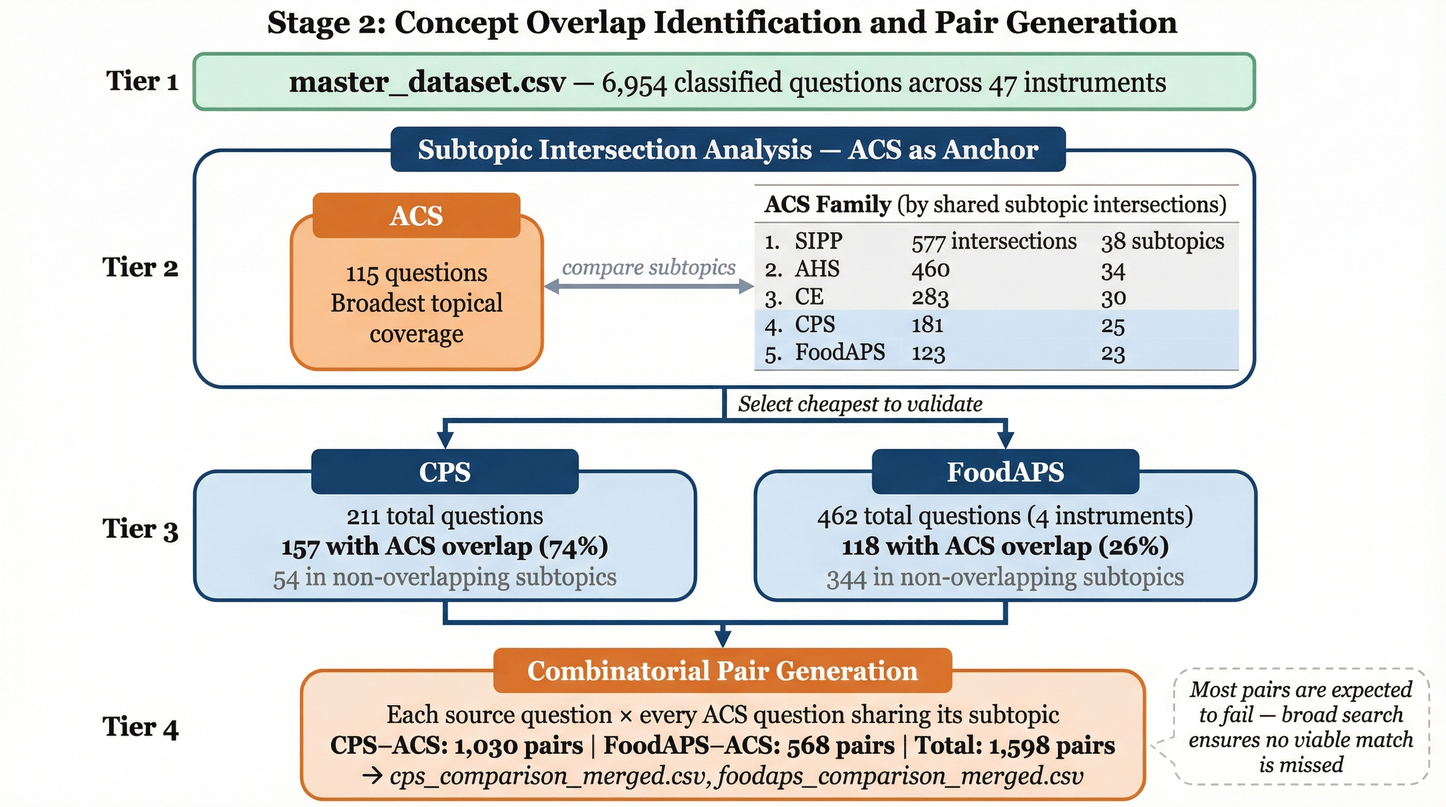
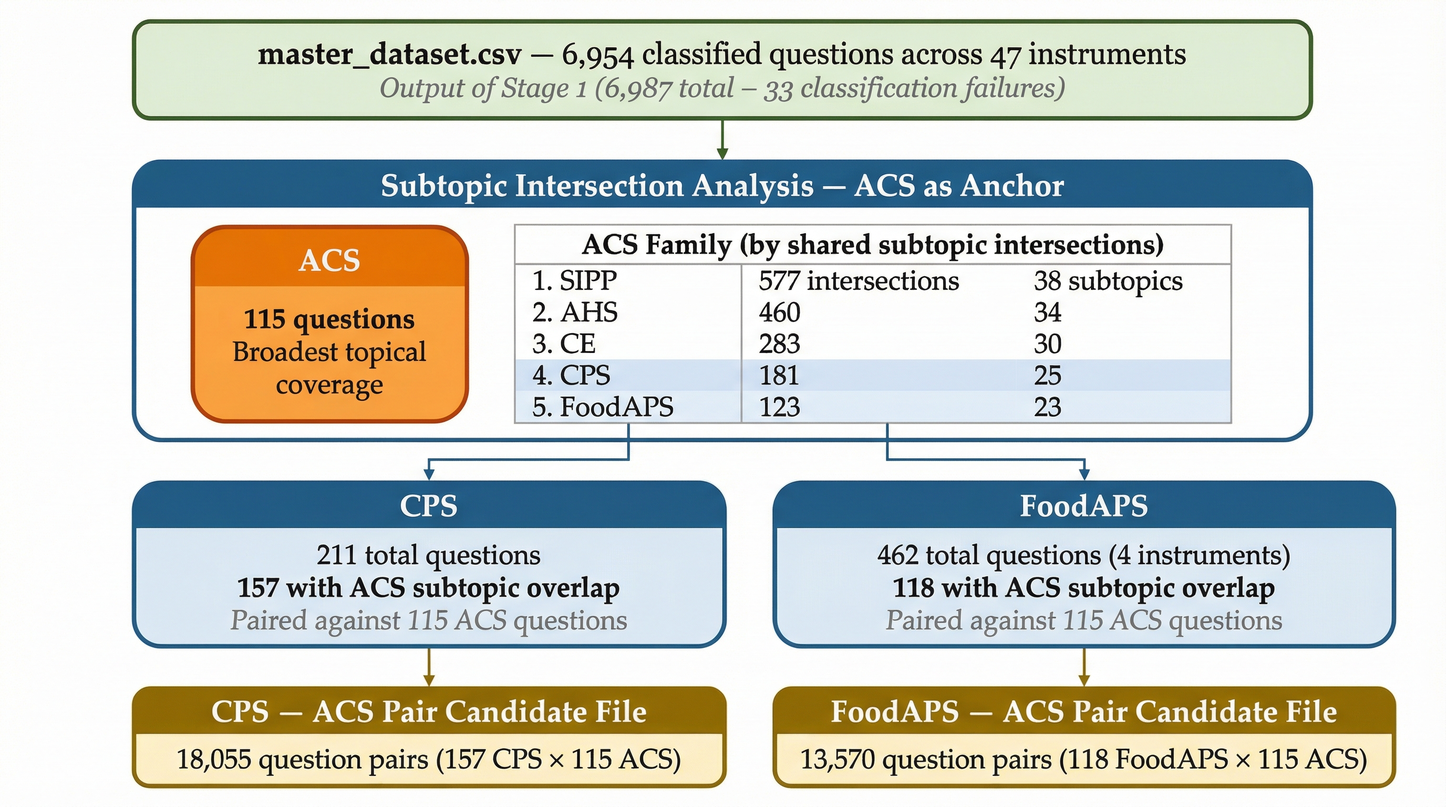
fix: regenerate Arch 2, 3, 6 from corrected method specs
Specs for stages 1, 2, 5 were updated with reviewer feedback after the
initial generation run. Regenerated from corrected specs:

  Arch 2 (stage1): run_20260301_181053_c85e33
    - Added full arbitration/judge loop (claude-sonnet-4-5)
    - Correct model names (gpt-5-mini, claude-haiku-4-5)
    - Intermediate artifacts (results_openai.jsonl, results_claude.jsonl)
    - Trust architecture annotation

  Arch 3 (stage2): run_20260301_181238_fc3c47
    - Input sublabel explains 6,987→6,954 delta (33 failures)
    - Removed "Select cheapest to validate" chart junk

  Arch 6 (stage5): run_20260301_181411_72c0da
    - Explicit pair→question aggregation (4-step)
    - Dedup step shown (380→275)
    - ACS-side deliverables (51 targets, 17 three-way, 2.78 fan-in)

Updated FIGURE_MAP.md with new provenance run IDs.

diff --git a/docs/FIGURE_MAP.md b/docs/FIGURE_MAP.md
@@ -23,11 +23,11 @@ Models used: VLM `gemini-2.5-flash` (config specifies `gemini-3.1-pro` — NOT F
 | Figure ID | Title | Chapter | Method Spec | Deployed Output | Provenance Run | Status |
 |-----------|-------|---------|-------------|-----------------|----------------|--------|
 | Arch 1 | Pipeline Overview | Appendix A | `assets/diagrams/paperbanana/pipeline_overview_method.txt` | `assets/diagrams/fig_pipeline_overview.png` | `run_20260301_163619_06e37c` | generated — awaiting review |
-| Arch 2 | Stage 1: Topic and Subtopic Classification | Appendix A | `assets/diagrams/paperbanana/stage1_classification_method.txt` | `assets/diagrams/fig_stage1_classification.png` | `run_20260301_163816_85418f` | generated — awaiting review |
-| Arch 3 | Stage 2: Concept Overlap and Pair Generation | Appendix A | `assets/diagrams/paperbanana/stage2_overlap_method.txt` | `assets/diagrams/fig_stage2_overlap.png` | `run_20260301_163952_86805f` | generated — awaiting review |
+| Arch 2 | Stage 1: Topic and Subtopic Classification | Appendix A | `assets/diagrams/paperbanana/stage1_classification_method.txt` | `assets/diagrams/fig_stage1_classification.png` | `run_20260301_181053_c85e33` (regen: spec updated with judge loop + arbitrator) | generated — awaiting review |
+| Arch 3 | Stage 2: Concept Overlap and Pair Generation | Appendix A | `assets/diagrams/paperbanana/stage2_overlap_method.txt` | `assets/diagrams/fig_stage2_overlap.png` | `run_20260301_181238_fc3c47` (regen: spec updated with delta explanation, removed chart junk) | generated — awaiting review |
 | Arch 4 | Stage 3: Multi-Model Barrier Rating | Appendix A | `assets/diagrams/paperbanana/stage3_rating_method.txt` | `assets/diagrams/fig_stage3_rating.png` | `run_20260301_164116_a62010` | generated — awaiting review |
 | Arch 5 | Stage 4: Structured Arbitration Protocol | Appendix A | `assets/diagrams/paperbanana/stage4_arbitration_method.txt` | `assets/diagrams/fig_stage4_arbitration.png` | `run_20260301_164253_41e621` | generated — awaiting review |
-| Arch 6 | Stage 5: Question-Level Results | Appendix A | `assets/diagrams/paperbanana/stage5_results_method.txt` | `assets/diagrams/fig_stage5_results.png` | `run_20260301_164431_705fb6` | generated — awaiting review |
+| Arch 6 | Stage 5: Question-Level Results | Appendix A | `assets/diagrams/paperbanana/stage5_results_method.txt` | `assets/diagrams/fig_stage5_results.png` | `run_20260301_181411_72c0da` (regen: spec rewritten with explicit pair→question aggregation, dedup step, ACS-side deliverables) | generated — awaiting review |
 
 **D2 diagrams (if any):**
 
